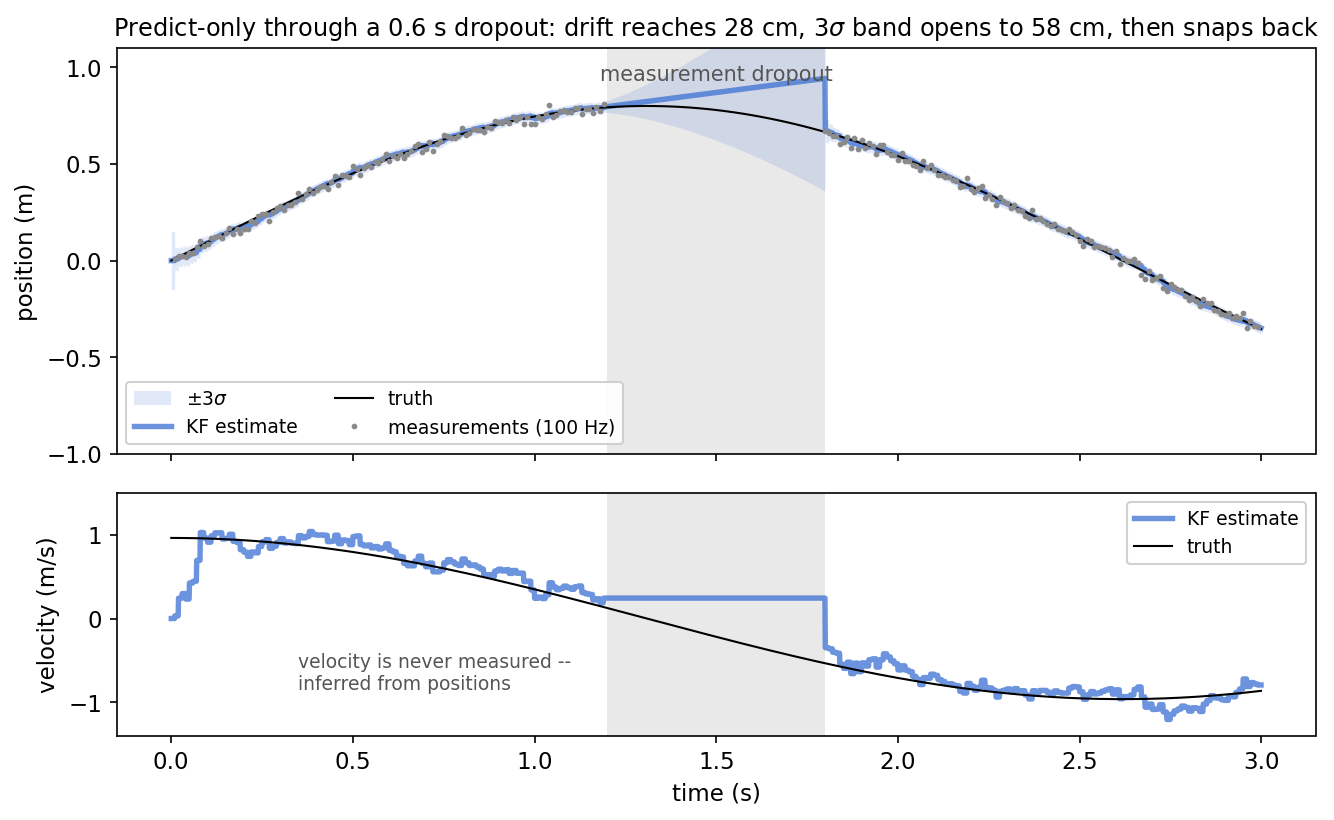
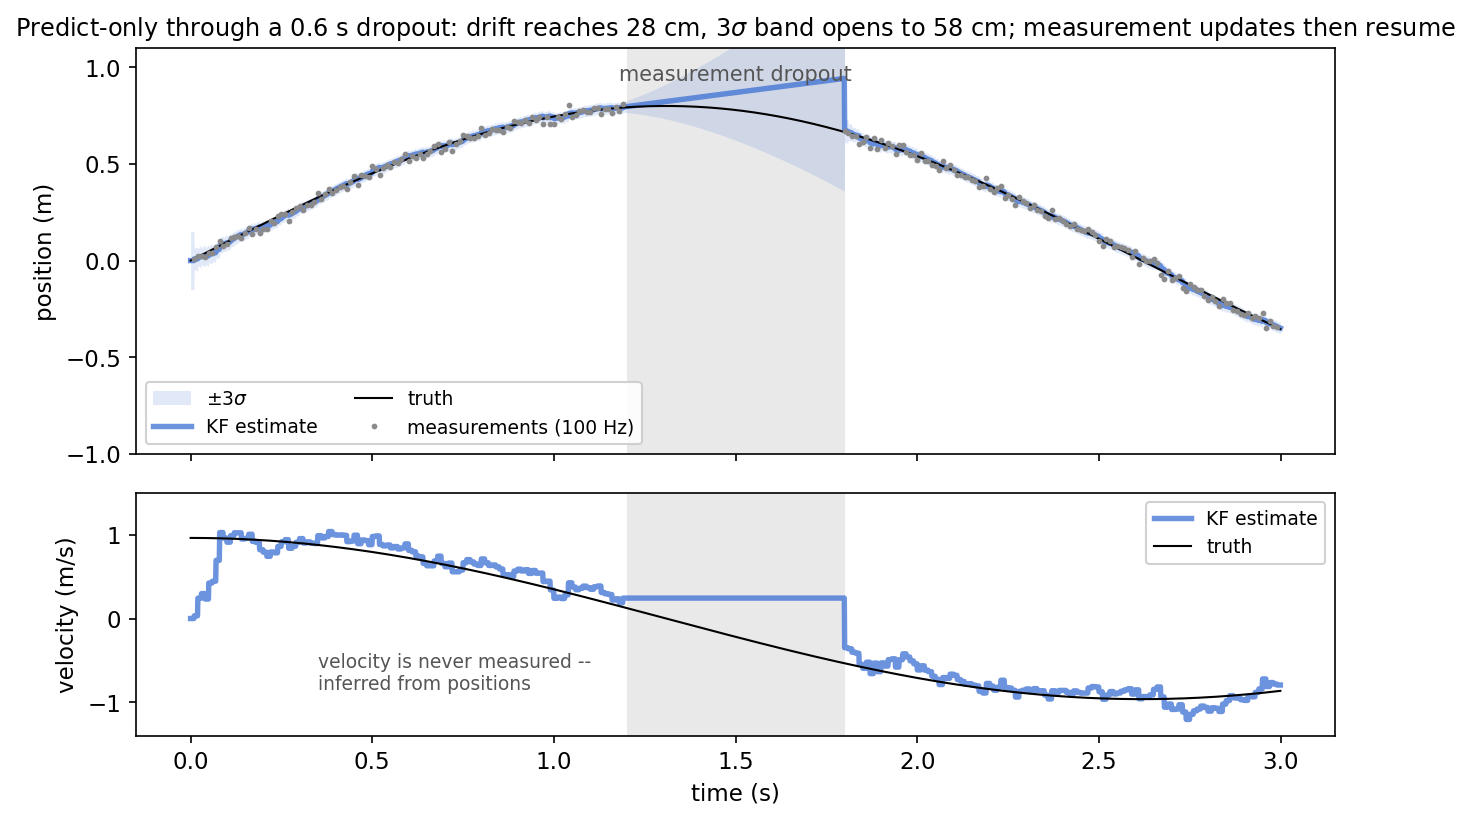
style(theory): 完善卡尔曼滤波推导与实现边界

diff --git a/examples/theory/kalman_spin_model.py b/examples/theory/kalman_spin_model.py
@@ -1,9 +1,11 @@
-# Whole-vehicle model figure for the aimbot landing section:
+# Whole-vehicle model figure for the target-tracking section:
 # left  -- geometry: four armor plates rotating around the chassis center,
 #          state (x_c, y_c, v, theta, omega, r), observation = one visible plate;
-# right -- why it works: the armor sweeps a looping trochoid while the
-#          center goes straight. Track the center, not the plate.
+# right -- simulated armor and chassis-center trajectories under simultaneous
+#          rotation and translation.
 # Generates chapters/2.Theory/images/theory-kalman-spin-model.png
+from pathlib import Path
+
 import numpy as np
 import matplotlib.pyplot as plt
 import matplotlib as mpl
@@ -14,14 +16,14 @@ mpl.rcParams.update({"font.size": 11, "axes.linewidth": 0.8})
 
 fig, (ax1, ax2) = plt.subplots(1, 2, figsize=(9.6, 4.6), dpi=150)
 
-# ---------- left: geometry at one instant --------------------------------
-r_pair = [0.26, 0.20]                    # two mounting radii (alternate)
+# ---------- left: simplified geometry at one instant ---------------------
+mounting_radius = 0.26                   # one-radius model used in the text
 half_w = 0.0675                          # small armor is 135 mm wide
 th0 = np.deg2rad(-80)                    # plate 0 roughly faces the camera
 
 for i in range(4):
     th = th0 + i * np.pi / 2
-    r = r_pair[i % 2]
+    r = mounting_radius
     n = np.array([np.cos(th), np.sin(th)])       # outward normal
     tang = np.array([-np.sin(th), np.cos(th)])
     c = r * n
@@ -41,8 +43,10 @@ ax1.annotate("center $(x_c, y_c)$", (-0.07, 0.06), ha="right",
 
 # radius r and angle theta of plate 0
 n0 = np.array([np.cos(th0), np.sin(th0)])
-ax1.plot([0, 0.26 * n0[0]], [0, 0.26 * n0[1]], color="black", lw=1.0)
-ax1.annotate("$r$", (0.5 * 0.26 * n0[0] - 0.06, 0.5 * 0.26 * n0[1]),
+ax1.plot([0, mounting_radius * n0[0]], [0, mounting_radius * n0[1]],
+         color="black", lw=1.0)
+ax1.annotate("$r$", (0.5 * mounting_radius * n0[0] - 0.06,
+                     0.5 * mounting_radius * n0[1]),
              fontsize=11)
 ax1.plot([0, 0.30], [0, 0], color=GRAY, lw=0.8, ls="--")
 arc = np.linspace(th0, 0, 40)
@@ -74,7 +78,7 @@ ax1.annotate("observed plate:\n$x_a = x_c + r\\cos\\theta$\n"
              "$y_a = y_c + r\\sin\\theta$",
              (-0.86, -0.72), fontsize=10, color=BLUE)
 
-ax1.set_title("One state, four plates", fontsize=11.5)
+ax1.set_title("Simplified four-plate geometry", fontsize=11.5)
 ax1.set_xlim(-0.9, 0.9); ax1.set_ylim(-0.95, 0.55)
 ax1.set_aspect("equal"); ax1.axis("off")
 
@@ -85,21 +89,22 @@ cx, cy = v * tt, np.zeros_like(tt)
 ax_, ay_ = cx + r0 * np.cos(th0 + omega * tt), cy + r0 * np.sin(th0 + omega * tt)
 
 ax2.plot(ax_, ay_, color=BLUE, lw=2.2, alpha=0.8,
-         label="armor plate (trochoid)")
-ax2.plot(cx, cy, color=MAGENTA, lw=2.6, label="chassis center (straight)")
+         label="armor-plate trajectory")
+ax2.plot(cx, cy, color=MAGENTA, lw=2.6, label="chassis-center trajectory")
 ax2.plot(cx[0], cy[0], "o", color="black", ms=5, zorder=5)
 ax2.plot(cx[-1], cy[-1], "o", color="black", ms=5, zorder=5)
 ax2.annotate("t = 0", (cx[0] - 0.02, 0.06), ha="right", fontsize=9)
 ax2.annotate("t = 1.5 s", (cx[-1] + 0.03, 0.06), fontsize=9)
 
-ax2.set_title("Spin 1.5 rev/s + translation 1 m/s:\n"
-              "armor loops, center goes straight", fontsize=11.5)
+ax2.set_title("Simulated motion: rotation 1.5 rev/s, translation 1 m/s",
+              fontsize=11.5)
 ax2.set_xlabel("x (m)"); ax2.set_ylabel("y (m)")
 ax2.set_aspect("equal")
 ax2.set_xlim(-0.45, 1.95); ax2.set_ylim(-0.55, 0.55)
 ax2.legend(loc="upper left", fontsize=9, framealpha=0.9)
 
 fig.tight_layout()
-fig.savefig("chapters/2.Theory/images/theory-kalman-spin-model.png",
-            bbox_inches="tight")
+output = (Path(__file__).resolve().parents[2]
+          / "chapters/2.Theory/images/theory-kalman-spin-model.png")
+fig.savefig(output, bbox_inches="tight")
 print("saved theory-kalman-spin-model.png")

diff --git a/examples/theory/kalman_async_update.py b/examples/theory/kalman_async_update.py
@@ -1,6 +1,8 @@
-# Asynchronous-update CV Kalman filter demo for the aimbot landing section:
+# Asynchronous-update CV Kalman filter demo for the target-tracking section:
 # predict at 1 kHz, measure at 100 Hz, with a 0.6 s measurement dropout.
 # Generates chapters/2.Theory/images/theory-kalman-async-update.png
+from pathlib import Path
+
 import numpy as np
 import matplotlib.pyplot as plt
 import matplotlib as mpl
@@ -41,10 +43,13 @@ for k in range(len(t)):
     if k > 0 and k % meas_every == 0 and not drop[k]:
         z = x_true[k] + rng.normal(0.0, sigma_z)  # full update on measurement
         S = H @ P @ H.T + R
-        K = P @ H.T @ np.linalg.inv(S)
+        K = np.linalg.solve(S.T, (P @ H.T).T).T
         x = x + (K @ (np.array([z]) - H @ x)).ravel()
-        P = (np.eye(2) - K @ H) @ P
-        meas_t.append(t[k]); meas_z.append(z)
+        I_KH = np.eye(2) - K @ H
+        P = I_KH @ P @ I_KH.T + K @ R @ K.T
+        P = 0.5 * (P + P.T)
+        meas_t.append(t[k])
+        meas_z.append(z)
     est.append(x.copy()); sig.append(np.sqrt(np.diag(P)))
 est, sig = np.array(est), np.array(sig)
 
@@ -62,7 +67,8 @@ for ax in (ax1, ax2):
     ax.axvspan(1.2, 1.8, color=GRAY, alpha=0.18, lw=0)
 ax1.set_title(f"Predict-only through a 0.6 s dropout: drift reaches "
               f"{100*drift:.0f} cm, 3$\\sigma$ band opens to "
-              f"{100*sig_end:.0f} cm, then snaps back", fontsize=11.5)
+              f"{100*sig_end:.0f} cm; measurement updates then resume",
+              fontsize=11.5)
 
 ax1.fill_between(t, est[:, 0] - 3 * sig[:, 0], est[:, 0] + 3 * sig[:, 0],
                  color=BLUE, alpha=0.15, lw=0, label="$\\pm 3\\sigma$")
@@ -85,6 +91,7 @@ ax2.set_ylim(-1.4, 1.5)
 ax2.legend(loc="upper right", fontsize=9, framealpha=0.9)
 
 fig.tight_layout()
-fig.savefig("chapters/2.Theory/images/theory-kalman-async-update.png",
-            bbox_inches="tight")
+output = (Path(__file__).resolve().parents[2]
+          / "chapters/2.Theory/images/theory-kalman-async-update.png")
+fig.savefig(output, bbox_inches="tight")
 print("saved theory-kalman-async-update.png")
